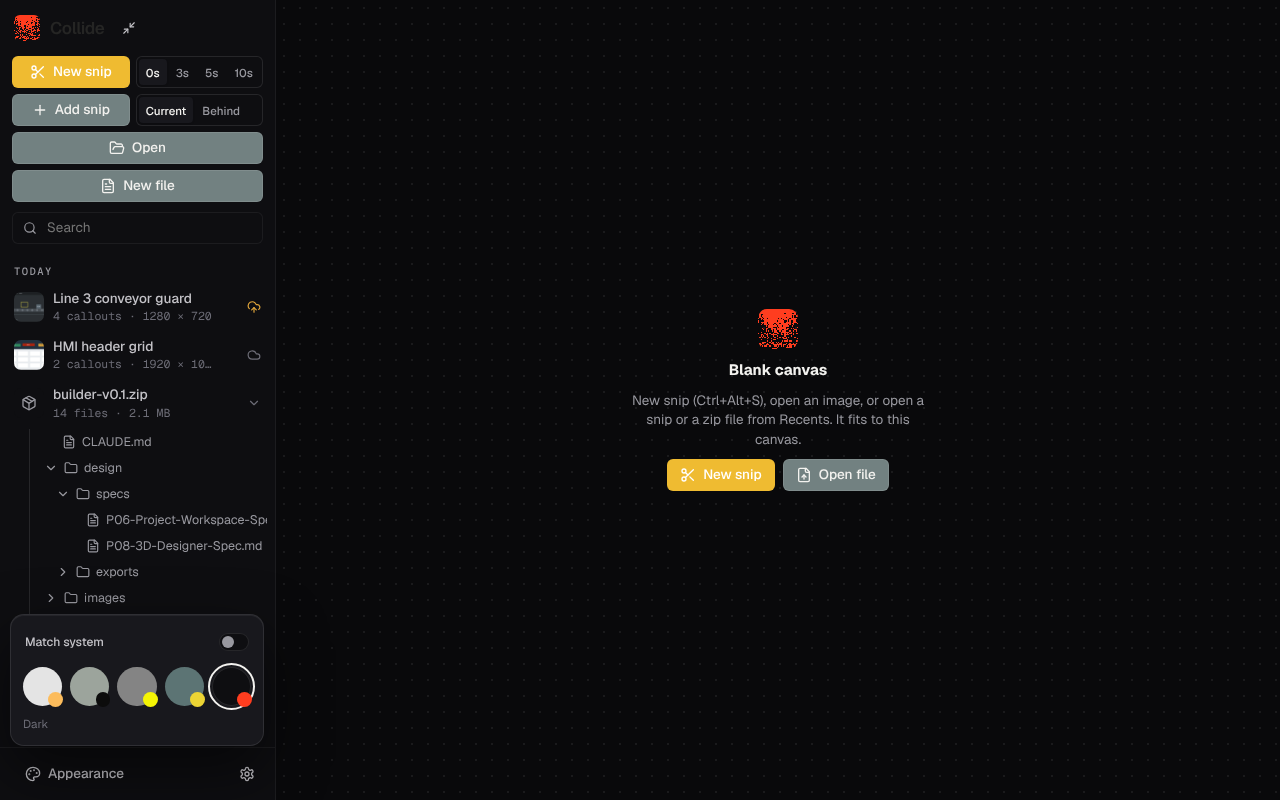
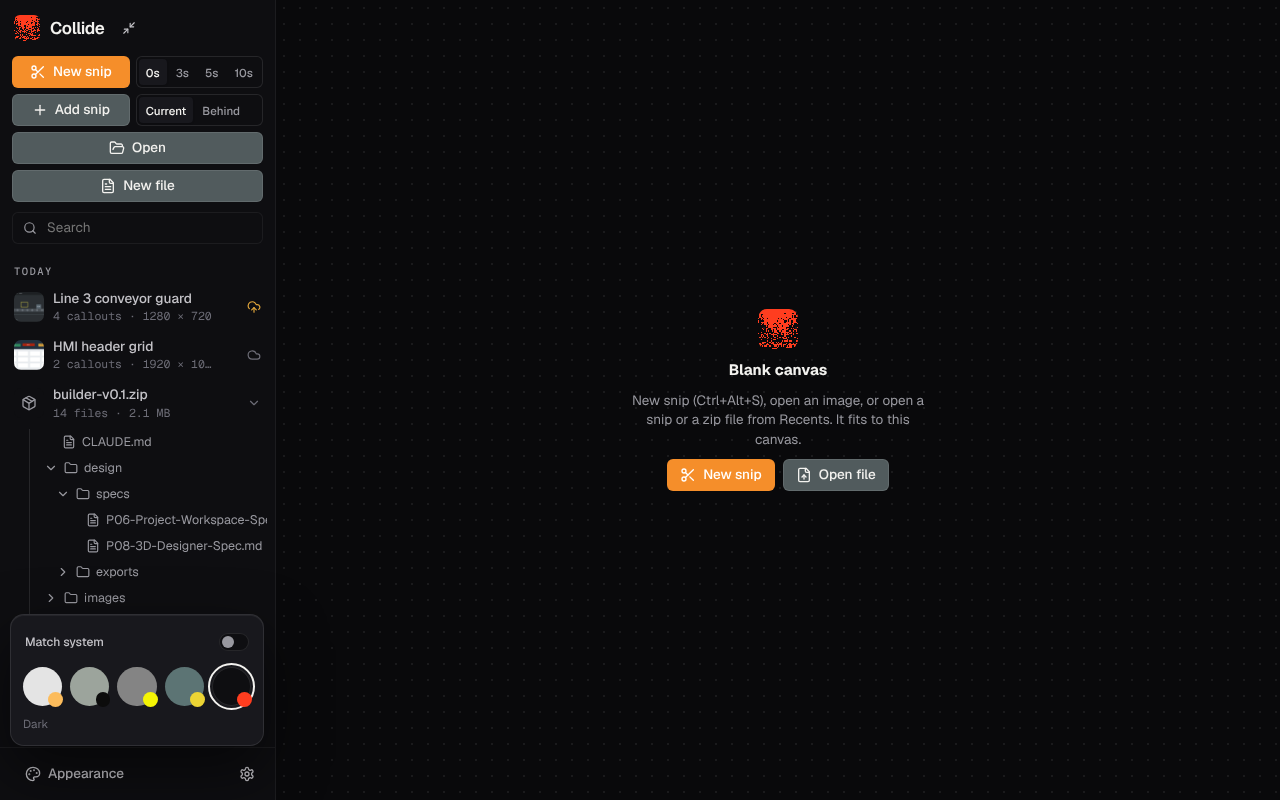
T52: Paper and Match system on light use the Aura paper ground
Paper swatch sets theme aura / ground paper; system on a light computer
resolves to aura + paper; stored collide.theme=light keeps the old Light.
Recents labels follow the look in use; body colour fade removed (A).
ISSUES row 62; screenshots refreshed in reports/T52.

Claude-Session: https://claude.ai/code/session_01EJCU4HRCouFVXAmVQiQoDt

Changed region(s): [[0.0, 0.0312, 0.2188, 0.25], [0.5, 0.5625, 0.7188, 0.625]]

diff --git a/products/collide/app/src/shell/Sidebar.tsx b/products/collide/app/src/shell/Sidebar.tsx
@@ -8,7 +8,7 @@ import { useEffect, useRef } from "react";
 import type { KeyboardEvent as ReactKeyboardEvent, ReactNode, Ref } from "react";
 import { Icon } from "../ds";
 import { CollapseButton, Logo } from "./parts";
-import { ADD_MODES, SNIP_DELAYS, prefersDark, type AddMode, type AuraGround, type Prefs, type Theme } from "./prefs";
+import { ADD_MODES, SNIP_DELAYS, groundInUse, prefersDark, resolveTheme, type AddMode, type AuraGround, type Prefs, type Theme } from "./prefs";
 import { filterRecents, groupRecents, recentTags, snipMeta, type RecentItem, type RecentZip, type TreeNode } from "./recents";
 
 const DELAY_TITLE: Record<number, string> = { 0: "No delay", 3: "Wait 3 seconds", 5: "Wait 5 seconds", 10: "Wait 10 seconds" };
@@ -16,21 +16,22 @@ const ADD_TITLE: Record<AddMode, string> = {
   Current: "A screenshot of the program that is open",
   Behind: "Collide hides and you snip the screen behind it, like New snip",
 };
-/** The five looks, lightest to darkest (Grant 2026-11-20): Paper is Collide Light (what a light system gets), Dark is Collide Dark (what a dark system gets), the middle three are Aura grounds. */
+/** The five looks, lightest to darkest (Grant 2026-11-20): Paper is the Aura paper ground (T52: it replaced Collide Light; what a light system gets),
+ *  Dark is Collide Dark (what a dark system gets), the middle three are Aura grounds. The old Light is not offered (a stored collide.theme = light still shows it). */
 const LOOKS = [
-  { id: "paper", name: "Paper", theme: "light" as Theme, aura: null },
+  { id: "paper", name: "Paper", theme: "aura" as Theme, aura: "paper" as AuraGround },
   { id: "lichen", name: "Lichen", theme: "aura" as Theme, aura: "lichen" as AuraGround },
   { id: "ash", name: "Ash", theme: "aura" as Theme, aura: "ash" as AuraGround },
   { id: "slate", name: "Slate", theme: "aura" as Theme, aura: "slate" as AuraGround },
   { id: "dark", name: "Dark", theme: "dark" as Theme, aura: null },
 ] as const;
 type LookId = (typeof LOOKS)[number]["id"];
-/** The look in use, or null for an Aura ground that is not one of the five (an older saved choice). */
+/** The look in use, or null for one that is not among the five (an older saved choice: another Aura ground, or the old Light). */
 function currentLook(theme: Theme, aura: AuraGround): LookId | null {
-  const t = theme === "system" ? (prefersDark() ? "dark" : "light") : theme;
-  if (t === "light") return "paper";
-  if (t === "dark") return "dark";
-  return LOOKS.find((l) => l.aura === aura)?.id ?? null;
+  const dark = prefersDark();
+  if (resolveTheme(theme, dark) === "dark") return "dark";
+  const ground = groundInUse(theme, aura, dark);
+  return LOOKS.find((l) => l.aura !== null && l.aura === ground)?.id ?? null;
 }
 
 /** A row of choices where one is on: a toggle, not a drop-down (Grant 2026-11-15). */
@@ -184,7 +185,8 @@ export function Sidebar(p: SidebarProps) {
   const groups = groupRecents(filterRecents(p.rows, p.query));
   // Tags come from the snips in Recents (Grant 2026-11-17: no sample tags in the real app); none, no Tags section.
   const tags = recentTags(p.rows);
-  const aura = prefs.theme === "aura";
+  // The Aura label style follows the look in use, so Match system on a light computer (Paper) gets it too (T52).
+  const aura = resolveTheme(prefs.theme, prefersDark()) === "aura";
   const look = currentLook(prefs.theme, prefs.aura);
   // A swatch picks that look and turns Match system off; the switch back on follows the computer again.
   const pickLook = (l: (typeof LOOKS)[number]) => {
@@ -303,10 +305,10 @@ export function Sidebar(p: SidebarProps) {
               </button>
               <div className="swatches">
                 {LOOKS.map((l) => (
-                  <button key={l.id} type="button" className={`sw ${l.id}`} data-aura-theme={l.aura ?? (l.id === "paper" ? "paper" : undefined)} title={l.name} aria-label={l.name} aria-pressed={look === l.id} onClick={() => pickLook(l)} />
+                  <button key={l.id} type="button" className={`sw ${l.id}`} data-aura-theme={l.aura ?? undefined} title={l.name} aria-label={l.name} aria-pressed={look === l.id} onClick={() => pickLook(l)} />
                 ))}
               </div>
-              <span className="hint">{prefs.theme === "system" ? `Follows Windows: ${look === "dark" ? "Dark" : "Paper"}.` : look ? LOOKS.find((l) => l.id === look)!.name : "Another Aura ground; pick a swatch to change it."}</span>
+              <span className="hint">{prefs.theme === "system" ? `Follows Windows: ${look === "dark" ? "Dark" : "Paper"}.` : look ? LOOKS.find((l) => l.id === look)!.name : prefs.theme === "light" ? "Collide Light, an older saved choice; pick a swatch to change it." : "Another Aura ground; pick a swatch to change it."}</span>
             </div>
           )}
           <button type="button" className="btn ghost" aria-expanded={pop} onClick={() => onPop(!pop)}>

diff --git a/products/collide/app/src/shell/prefs.ts b/products/collide/app/src/shell/prefs.ts
@@ -89,9 +89,13 @@ export function savePref<K extends keyof Prefs>(key: K, value: Prefs[K], store: 
   }
 }
 
-/** Light or Dark for "system", from the computer's own setting. */
+/** The Aura ground "system" gives on a light computer (T52, Grant 2026-11-20: Paper replaces the old Collide Light). */
+export const SYSTEM_LIGHT_GROUND: AuraGround = "paper";
+
+/** The look for "system", from the computer's own setting: Dark, or the Aura look (the paper ground, T52).
+ *  The old Light ("light") is reached only from a stored collide.theme = light. */
 export function resolveTheme(theme: Theme, prefersDark: boolean): Exclude<Theme, "system"> {
-  return theme === "system" ? (prefersDark ? "dark" : "light") : theme;
+  return theme === "system" ? (prefersDark ? "dark" : "aura") : theme;
 }
 
 export const prefersDark = (): boolean => {
@@ -102,9 +106,18 @@ export const prefersDark = (): boolean => {
   }
 };
 
+/** The Aura ground in use, or null when the look is not Aura. "system" on a light computer is always paper,
+ *  whatever ground is remembered (T52). */
+export function groundInUse(theme: Theme, aura: AuraGround, dark: boolean): AuraGround | null {
+  if (resolveTheme(theme, dark) !== "aura") return null;
+  return theme === "system" ? SYSTEM_LIGHT_GROUND : aura;
+}
+
 /** Put the theme on <html>: data-app-theme is the look in use (light, dark or aura); data-aura-theme the Aura ground. */
 export function applyTheme(theme: Theme, aura: AuraGround, root: HTMLElement = document.documentElement): void {
-  root.dataset.appTheme = resolveTheme(theme, prefersDark());
-  if (theme === "aura") root.dataset.auraTheme = aura;
+  const dark = prefersDark();
+  root.dataset.appTheme = resolveTheme(theme, dark);
+  const ground = groundInUse(theme, aura, dark);
+  if (ground) root.dataset.auraTheme = ground;
   else delete root.dataset.auraTheme;
 }

diff --git a/products/collide/app/src/shell/shell.css b/products/collide/app/src/shell/shell.css
@@ -1,6 +1,7 @@
 /* The layout shell (RUN3 T31): app tokens per theme and the shell's styles, from ../../../layout-prototype.html.
    Themes: Light (the base), Dark (the Collide design system as written) and Aura (aura.css grounds).
-   <html data-app-theme="light|dark|aura"> is set by prefs.ts; "system" resolves to light or dark there.
+   <html data-app-theme="light|dark|aura"> is set by prefs.ts; "system" resolves to dark, or to aura with the paper ground (T52).
+   Light is no longer offered (T52: Paper replaced it); its tokens stay for a stored collide.theme = light (and the reference harness).
    The annotation colours and the logo are never themed. */
 
 /* ---------- App tokens. Bare :root = Collide Light (Draft, not yet approved by Grant). ---------- */
@@ -74,7 +75,8 @@
 
 /* ---------- Base ---------- */
 html, body, #root { height: 100%; }
-body { margin: 0; background: var(--bg); color: var(--t1); font: 400 13.5px/1.45 var(--font-ui); overflow: hidden; transition: background-color 240ms ease-out, color 240ms ease-out; }
+/* T52 (A): no colour fade on body; a theme change is instant, like the rest of the shell (the fade only moved the body's ground). */
+body { margin: 0; background: var(--bg); color: var(--t1); font: 400 13.5px/1.45 var(--font-ui); overflow: hidden; }
 body.compact-bg { background: color-mix(in srgb, var(--t1) 14%, var(--bg)); }
 .app, .app *, .splash, .splash * { box-sizing: border-box; }
 /* No specificity, so each control's own class decides its font and colour. */

diff --git a/products/collide/ISSUES.md b/products/collide/ISSUES.md
@@ -65,3 +65,4 @@ Things blocking progress or needing Grant's input, right now. Whoever hits one a
 | 59 | Tester (Lydia) / Coder | T49 | Old Edit / Preview assertions changed, as the ticket asks (commit 36e4b8a; only where the toggle is gone, the file's text now read from the editor's `.cm-line`s): `e2e/markdown.spec.ts` (Insert image now "at the caret, the end of the file when the editor was never clicked", no Edit click; Save keeps the text: the rectangle placed from `.md-h1` instead of the `<h1>` heading, typing into `.cm-content` instead of the Edit textbox; "the page keeps its scroll through Edit / Preview and another tab" became "through another tab"); `e2e/headerToolbars.spec.ts` (6.2 "no Edit button, text tools on" instead of clicking Edit; 6.3 "Preview and Edit both copy" became "Copy gives a picture of the page", the Edit-mode copy toast "Copied the page as a PNG" gone; 6.4 Save as MD reads the editor's lines); `e2e/fitKey.spec.ts` (Markdown: F fits the page, an f typed in the text is text, no Edit click); `e2e-electron/collide.spec.ts` (the reopened `.collide` text is checked in the editor's lines instead of Edit's textbox); `src/shell/headerT45.test.tsx` (one view with both rows, no Edit / Preview; "a tool picked in Edit opens the Preview" became "a callout tool turns on, no view to switch"). One new test is wrong against the ticket and fails (not edited, as the rules ask): `e2e/markdownLive.spec.ts:46` "no textarea in the Workspace" counts the callout cards' note boxes (`Note for callout 1/2`, textareas in the Callouts list), which the ticket keeps ("cards and the list keep working"); P06 has two callouts, so it finds 2. Tester: narrow it to the page (e.g. `.mdpage textarea`) or exclude the list. | Open Correction (Lydia): the "no textarea" check in `e2e/markdownLive.spec.ts` now covers the page and the editor only (`.mdpage textarea, .cm-editor textarea`); the callout cards keep their note textareas, as the ticket says. |
 | 60 | Coder (Hrongar) | T49 | One live editor, CodeMirror 6 (pinned: state 6.7.6, view 6.43.15, commands 6.11.1, lang-markdown 6.5.2, language 6.13.1). (A) choices: (1) the page you type into is the CodeMirror editor under the markup canvas; with Select a press goes to the text unless it lands on a callout (then the canvas selects and moves it), a drawing tool makes the text read-only and draws; (2) the whole page is drawn, not only the visible part (CodeMirror's print switch kept on, `livePage.ts`), so every line is on the page under the callouts; (3) Copy, Save as PNG/JPEG/PDF and the `.collide` preview draw the page with markdown-it (as the ticket says) under the callouts at the same page pixels; the live page shows the marks and has its own line spacing, so a callout can sit a little off its text in the picture (the sample P06 callouts were placed on the old rendered page and now sit a few lines off on the live page too); (4) markers dimmed (`--t4`, opacity 0.7), headings 24 / 17 / 14.5 px as the rendered page, code in `--font-mono`; heading lines also carry `role="heading"` with their level; a picture link shows its picture under its line (zip pictures only, markdown-it's image rule); (5) the Markdown language alone (GFM), not `markdown()`: Enter does not continue lists, a pasted URL is not turned into a link, no HTML / code-block languages (keeps the HTML, CSS and JS parsers out of the bundle); (6) a line tool (Heading, List, Num list, Label) on a selection keeps those lines selected, so the same tool again takes the mark off (Lydia's `cmTools.test.ts`); the prototype's "Num list, then Label on the line the selection ends in" now labels every selected line; (7) a pasted picture's alt text is its file name (`pasted-HHMMSS`), as Insert image's is (was "Pasted image"; Lydia's `markdownLive.spec.ts`); (8) a picture goes at the caret once the editor has had one, else at the end of the file; (9) text undo is CodeMirror's (Ctrl+Z / Ctrl+Y while typing); the toolbar Undo / Redo and Ctrl+Z outside the text undo the markup; (10) Save source now also marks a Markdown tab Saved (the text and markup are in the file); (11) the text tools' accessible names are their titles ("Bulleted list", "Insert a table", "Label line", "Numbered list"; visible labels unchanged); (12) a tab's editor state (text, selection, undo steps) is kept while another tab is in front. Bundle (`vite build`): before `dist/` 3,047,695 B, main JS 1,147,510 B (gzip 407,887); after `dist/` 3,357,550 B, main JS 1,455,867 B (gzip 508,217): +310 KB / +100 KB gzip (with `markdown()` it was +500 KB, the HTML/CSS/JS languages). `pnpm ref:app` 10/15: the three of row 53 unchanged (same steps), plus `markdown-text-tools.spec.ts` and `paste-image.spec.ts` fail at their first step, the Edit button (line 13, line 40), gone by T49 (they also read a textbox, the live preview's `<table>` and `![Pasted image]`). `markdown-margin-drawing`, `markdown-zoom` and `order-numbers-and-eraser` pass (heading lines keep the heading role). Grant: OK, or the copied picture taken from the live page (marks shown, callouts exactly on their text) instead of markdown-it's? | Open |
 | 61 | Coder (Hrongar) | T50 | Compact header buttons and the minimum window size. **Minimum: 1197 x 415 CSS px of page area** (the window's content size at 100% zoom; `src/native/minSize.ts`, given to the editor window as `useContentSize`, `minWidth`, `minHeight`). How measured: Playwright (Chromium, `pnpm e2e` setup) with a Snip tab and one callout, a Markdown tab (P06) and a PDF tab (two-pages.pdf); the viewport stepped down (width 1280, 1200, 1130 ... 1110 then 1 px steps; height 800 ... 240 then 1 px steps) and at each size checked: sidebar, header, toolbar and callout panel inside the page and apart, no button outside the toolbar, toolbar and header not scrolling, no page scroll, the sidebar's compact block and the first callout card in view. Results: the Snip toolbar needs 842 px (window 1118: at 1116 it scrolls); **the Markdown toolbar's first row needs 921 px, so 921 + the 276 px sidebar = 1197** (at 1196 it scrolls; the PDF toolbar fits at 1197); the header never sets the width (it goes icon-only). Height: the toolbar, header and sidebar fit far lower (the sidebar's content needs 307); **415 is the smallest height at which the callout panel shows its first callout card whole without its list scrolling** (414 scrolls). (A) choices: (1) the height rule is "one whole callout card, no scrolling in the list" (the canvas then has about 230 px); (2) the header switches to icons when it is narrower than its buttons' measured widths with words plus 120 px kept for the file name (`HEAD_NAME_MIN`), measured by a ResizeObserver on the header and its items, each button's width-with-words remembered by its label, so one threshold per header and no flicker; `.wshead` always has `data-compact`; (3) Save, Save source, Save as and Copy now always carry an aria-label (Save, Save source, Save as, Copy to clipboard) and their icon is the same Lucide mask drawn on an `<svg>` box (Lydia's test finds the icon as `svg`; the other icons stay `<span>`s); Save as keeps its chevron; Close keeps its word; (4) the old `@media (max-width: 820px)` rule hiding the words is removed, the phone layout's other header rules stay; (5) the window opens at 1280 x 800 of page area (`useContentSize`), a frame larger than before; (6) Expand restores exactly MIN_WIDTH x MIN_HEIGHT plus the window's frame (`collapse.ts` `minimum`), not the minimum read before the collapse (`src/native/collapseMin.test.ts`); (7) the dev build's menu bar is hidden (`autoHideMenuBar`, Alt shows it; the packaged app has no menu), so the page area is the window's content size, as Lydia's Electron test reads it; (8) the minimum is in window units at zoom 1: a page zoomed with Ctrl+= can clip at the minimum. Review round 1 (Farengar): (9) on a small or high-scaling screen (a work area under 1197 x 415 plus the frame, e.g. 1366 x 768 at 125% or more) the window opens inside its screen's work area and its minimum is min(MIN + frame, work area) per side (`fitWindow`, `fitMinimum`, `fitBounds` in `src/native/minSize.ts`, `src/native/fitMinimum.test.ts`); Expand clamps the same way to the work area of the screen the window goes back to, so the layout can then clip on such a screen; (10) Expand unmaximizes before it reads the frame (the frame of the normal window); (11) the header has one ResizeObserver for its life, and the remembered word widths are cleared and measured again when fonts finish loading. **Conflict for Lydia (tests not edited):** five older Electron tests place the window below the new minimum and wait for exact bounds, so they now fail: `e2e-electron/compact.spec.ts` lines 43, 61, 120 (1100 x 700, 1000 x 650) and 82 (900 x 400), and `e2e-electron/snip.spec.ts` line 111 (1100 x 700). Any minimum that fits the Snip toolbar (1118) is above 1100, so they need windows of at least MIN_WIDTH x MIN_HEIGHT (for example `MIN_WIDTH + 100`). `pnpm ref:app` 10/15, unchanged (rows 53, 60). Grant: OK with 1197 x 415, or a narrower Markdown toolbar first row so the minimum can be lower? | Open **Electron tests moved above the minimum (Lydia, T50):** `e2e-electron/compact.spec.ts` line 49 (windowed, no tab) 1100x700 → (MIN_WIDTH + 100)x700; line 67 (a tab open) 1000x650 → (MIN_WIDTH + 100)x650; line 89 (low on the screen) 900x400 → (MIN_WIDTH + 100)x(MIN_HEIGHT + 10); line 126 (minimum comes back) 1100x700 → (MIN_WIDTH + 100)x700; `e2e-electron/snip.spec.ts` line 119 (editor placed so restore is exact) 1100x700 → (MIN_WIDTH + 100)x700. Reason: the T50 minimum (1197 x 415) blocks smaller bounds; only the setup size changed, no assertion. |
+| 62 | Coder (Hrongar) | T52 | Paper is the Aura paper ground (replaces the old Collide Light; Grant 2026-11-20). The Paper swatch sets `theme: "aura"`, `aura: "paper"`; Match system on a light computer applies `data-app-theme="aura"` `data-aura-theme="paper"` (ignoring the remembered ground), on a dark computer Dark as before; a stored `collide.theme = light` still applies the old Light (tokens kept in `shell.css`), but no swatch or Match system reaches it. **Test assertions changed by Lydia (old "Paper = theme light"):** (1) `src/shell/prefs.test.ts` "system follows the computer…": `resolveTheme("system", false)` `"light"` → `"aura"`; (2) `src/App.test.tsx` "themes apply to the whole app: five swatches…": after clicking Paper, `appTheme` `"light"` → `{ appTheme: "aura", auraTheme: "paper" }`, plus Paper `aria-pressed="true"`. (A) choices: (1) `resolveTheme("system", false)` returns `"aura"`; the ground for system is the constant `SYSTEM_LIGHT_GROUND = "paper"` and `groundInUse()` in `prefs.ts` gives the ground in use (Sidebar uses it for the pressed swatch); (2) the Recents day labels take the Aura style (`Today {03}`) whenever the look in use is Aura, so also with Match system on a light computer (was only when `theme` was `aura`); (3) with a stored old Light no swatch is pressed and the hint reads "Collide Light, an older saved choice; pick a swatch to change it."; (4) the 240 ms colour fade on `body` is removed: a theme change is now instant, as for the rest of the shell (Lydia's e2e reads the ground right after the click, and the screenshots would catch the fade half way); (5) the Paper swatch has `data-aura-theme="paper"` from its look, drawn from `--aura-bg` / `--aura-accent` as the other Aura swatches. Screenshots: `reports/T52/` (paper, lichen, ash, slate, dark). `pnpm ref:app` 10/15, unchanged (rows 53, 60; the harness's `collide.theme = light` still gives the old Light). Grant: OK with the instant theme change, and should the old Light tokens be removed in a later task? | Open |
